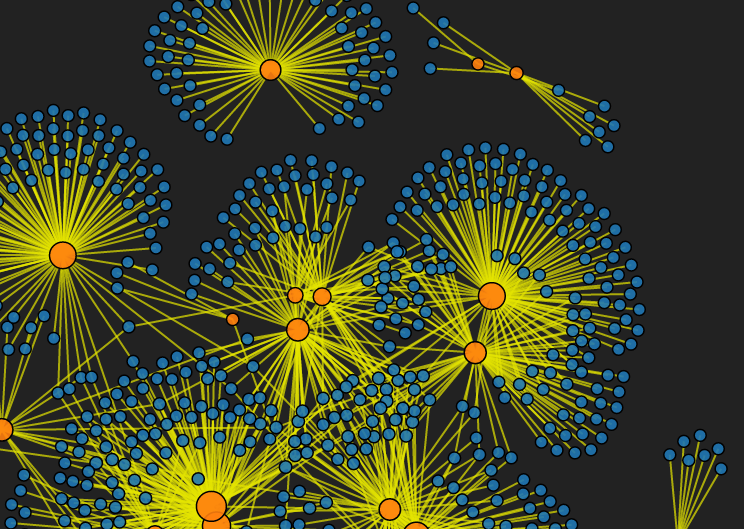
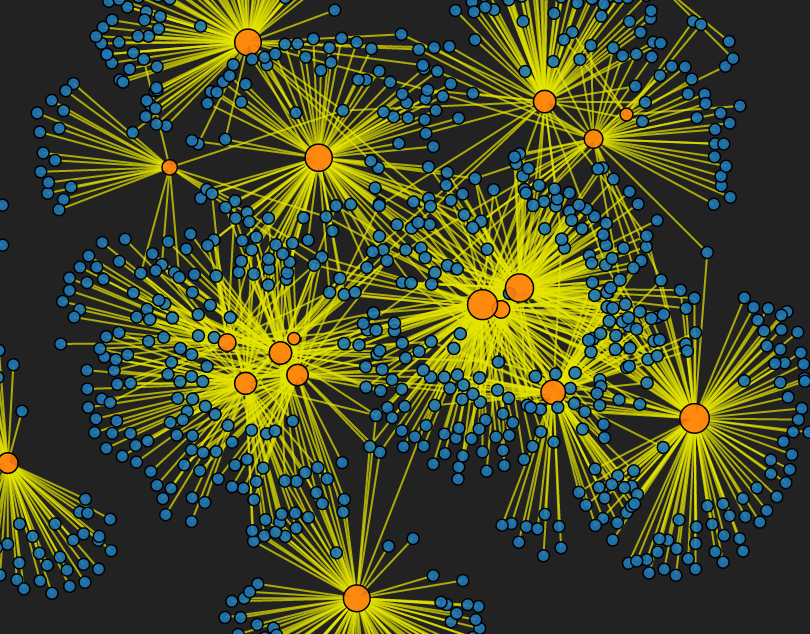
New theme and new post

diff --git a/_sass/_base.scss b/_sass/_base.scss
@@ -33,9 +33,9 @@ $purple: #B509AC;
 $dark : #272727;
 
 
-$grey-color-dark: #333;   /* footer */
+$grey-color-dark: #272727;   /* footer */
 $grey-color-light: #ddd;  /* navigation bar border */
-$text-color:     #666;
+$text-color:     #fff;
 
 /* Set theme color *************************/
 $theme-color:   $blue;
@@ -52,7 +52,15 @@ body {
     line-height: $base-line-height;
     font-weight: 100;
     color: $text-color;
-    background-color: $background-color;
+	background: linear-gradient(
+      rgba(0, 0, 0, 0.6),
+      rgba(0, 0, 0, 0.6)
+     ), url("https://raw.githubusercontent.com/data-slinky/UIUC_network/gh-pages/Visualization.png") no-repeat center center fixed; 
+	-webkit-background-size: cover;
+	-moz-background-size: cover;
+	-o-background-size: cover;
+	background-size: cover;
+    /* background-color: $background-color; */
     -webkit-text-size-adjust: 100%;
 }
 
@@ -137,7 +145,7 @@ h1, h2, h3, h4, h5, h6 {
  * Links
  */
 a {
-    color: $text-color;
+    color: $theme-color;
     text-decoration: none;
     /*
     &:visited {
@@ -145,7 +153,7 @@ a {
     }
     */
     &:hover {
-        color: $theme-color;
+        color: $text-color;
         text-decoration: none;
     }
 }

diff --git a/css/main.scss b/css/main.scss
@@ -14,7 +14,7 @@ $text-color:       #111;
 $background-color: #fff;
 $brand-color:      #2a7ae2;
 
-$grey-color:       #828282;
+$grey-color:       #ba4826;
 $grey-color-light: lighten($grey-color, 40%);
 $grey-color-dark:  darken($grey-color, 25%);
 

diff --git a/_sass/_layout.scss b/_sass/_layout.scss
@@ -4,8 +4,8 @@
  */
 .site-header {
 border-bottom: 1px solid $grey-color-light;
-background-color: #fff;
-opacity: 0.75;
+background-color: #272727;
+opacity: 0.85;
 position:fixed;
 left:0px;
 top:0px;

diff --git a/_posts/2016-08-27-uiuc-network-p4.md b/_posts/2016-08-27-uiuc-network-p4.md
@@ -1,0 +1,41 @@
+---
+layout: post
+title: UIUC interactive network (p4)
+date: 2016-08-27
+description: The UIUC universe... minus the students and the interactive part ᕦ(ò_óˇ)ᕤ
+tags: [network, Visualization, software]
+---
+
+Part of project: [UIUC Affiliation Network](http://data-slinky.com/project/2_UIUC_affiliation_network/)
+
+In my previous post [post 3]({% post_url 2016-07-27-uiuc-network-p3 %}), I mentioned that I will
+only sample part of the 6,474 nodes and 8,271 edges of the network since d3.js was super slow at 
+rendering the entire thing. While visualizing such large network is totally doable relatively
+quickly using Python or R, I wanted to explore some softwares specifically designed for the task.
+
+I played around with two open-source software: (1) [Gephi](https://gephi.org/) and (2) 
+[Cytoscape](http://www.cytoscape.org/). There are pros and cons for both. I found the UI of 
+Gephi to be very well-designed and intuitive as option is where you expect it to be. However, it 
+seems very slow at rendering my network as the preview function with even forced direct layout took 
+over 5 minutes (on a decent machine with 12mb of memory). I found Cytoscape to be the total opposite.
+It was very fast but the UI was not as intuitive. Embarassingly, it took me about an hour and a few
+YouTube videos to learn how to do simple things such as setting scaling node sizes and different node 
+colors.
+
+As it was originally an application for biological research, Cytoscape allows you to download some 
+bio-databases to play around with which was very fun. The strong community support provided an ample
+number of layout types to experiment with. I eventually went with the strong-cluster layout from 
+[Allegro](http://apps.cytoscape.org/apps/allegrolayout).
+
+<figure>
+ <a href="https://raw.githubusercontent.com/data-slinky/UIUC_network/gh-pages/Visualization.png" data-lightbox="appfoundry_image_set" data-title="Source: 
+ UIUC Universe... minus the students.">
+  <img src="https://raw.githubusercontent.com/data-slinky/UIUC_network/gh-pages/Visualization.png" alt="UIUC Universe" style="max-width:100%;"/>
+</a>
+ <div class="col caption">Click image to view full-size.</div>
+ </figure>
+ 
+The orange dots correspond to people while the green dots correspond to the departments. Again, I 
+made the size of the department nodes scale by it's out-degree. Honestly, we cannot tell much by just
+looking at a screenshot so you probably should load the _.cys_ file from the repository to Cytoscape
+to gather more information.

diff --git a/about.md b/about.md
@@ -6,21 +6,15 @@ permalink: /about/
 
 I'm a PhD student at [UIUC](http://illinois.edu/) and an aspiring 
 [data scientist](http://i.giphy.com/ize2r20ICQONq.gif). My interests are in data mining, 
-analytics and visualization.
+computer vision and visualization. I am also an occasional developer when I have too much
+free time.
 <br><br>
 
 ## data-slinky
 <br>
-I originally created data-slinky to highlight some projects I've done. Since all the cool 
-kids have blogs these days, I figured why not. data-slinky is a data science portfolio plus 
-a collection of tutorials and thoughts. All datasets and code are either uploaded to
-[Github](https://github.com/data-slinky) or available publicly unless it's work-related or
-research in-progress (hey, I gotta eat too).
-
-This website was built using [Jekyll](http://jekyllrb.com) with the
-[folio](https://github.com/bogoli/-folio) theme plus some personalize tweaks. Of course, 
-everything is made with &#9829; + &#9749;.
-
+I created data-slinky as a data science portfolio plus a collection of tutorials and references for myself and others. I'm a big proponent of
+open-source and reproducable results. As such, all datasets and code are either uploaded to [Github](https://github.com/data-slinky) or
+available publicly unless it's work-related (sorry, I gotta eat too). Of course, everything is made with &#9829; + &#9749;.
 
 <span class="contacticon center">
 	<a href="mailto:mailto:&#106;&#107;&#110;&#103;&#117;&#121;&#101;&#050;&#064;&#105;&#108;&#108;&#105;&#110;&#111;&#105;&#115;&#046;&#101;&#100;&#117;"><i class="fa fa-envelope-square"></i></a>

diff --git a/_portfolio/2_UIUC_affiliation_network.md b/_portfolio/2_UIUC_affiliation_network.md
@@ -23,8 +23,9 @@ process is given in a series of posts:
 1. [Scraping the data]({% post_url 2016-07-22-uiuc-network-p1 %})
 2. [Creating the network]({% post_url 2016-07-25-uiuc-network-p2 %})
 3. [Visualizing]({% post_url 2016-07-27-uiuc-network-p3 %})
+4. [Visualizing 2.0]({% post_url 2016-08-27-uiuc-network-p4 %})
 
-# Things to note
+# Things to note from the d3 viz
 
 * Size of departmental nodes is determined by out-degree
 * The distance between the department nodes is based on number of affiliated people (e.g.,

diff --git a/tag/software.md b/tag/software.md
@@ -1,0 +1,5 @@
+---
+layout: blog_by_tag
+tag: software
+permalink: /tag/Software/
+---
